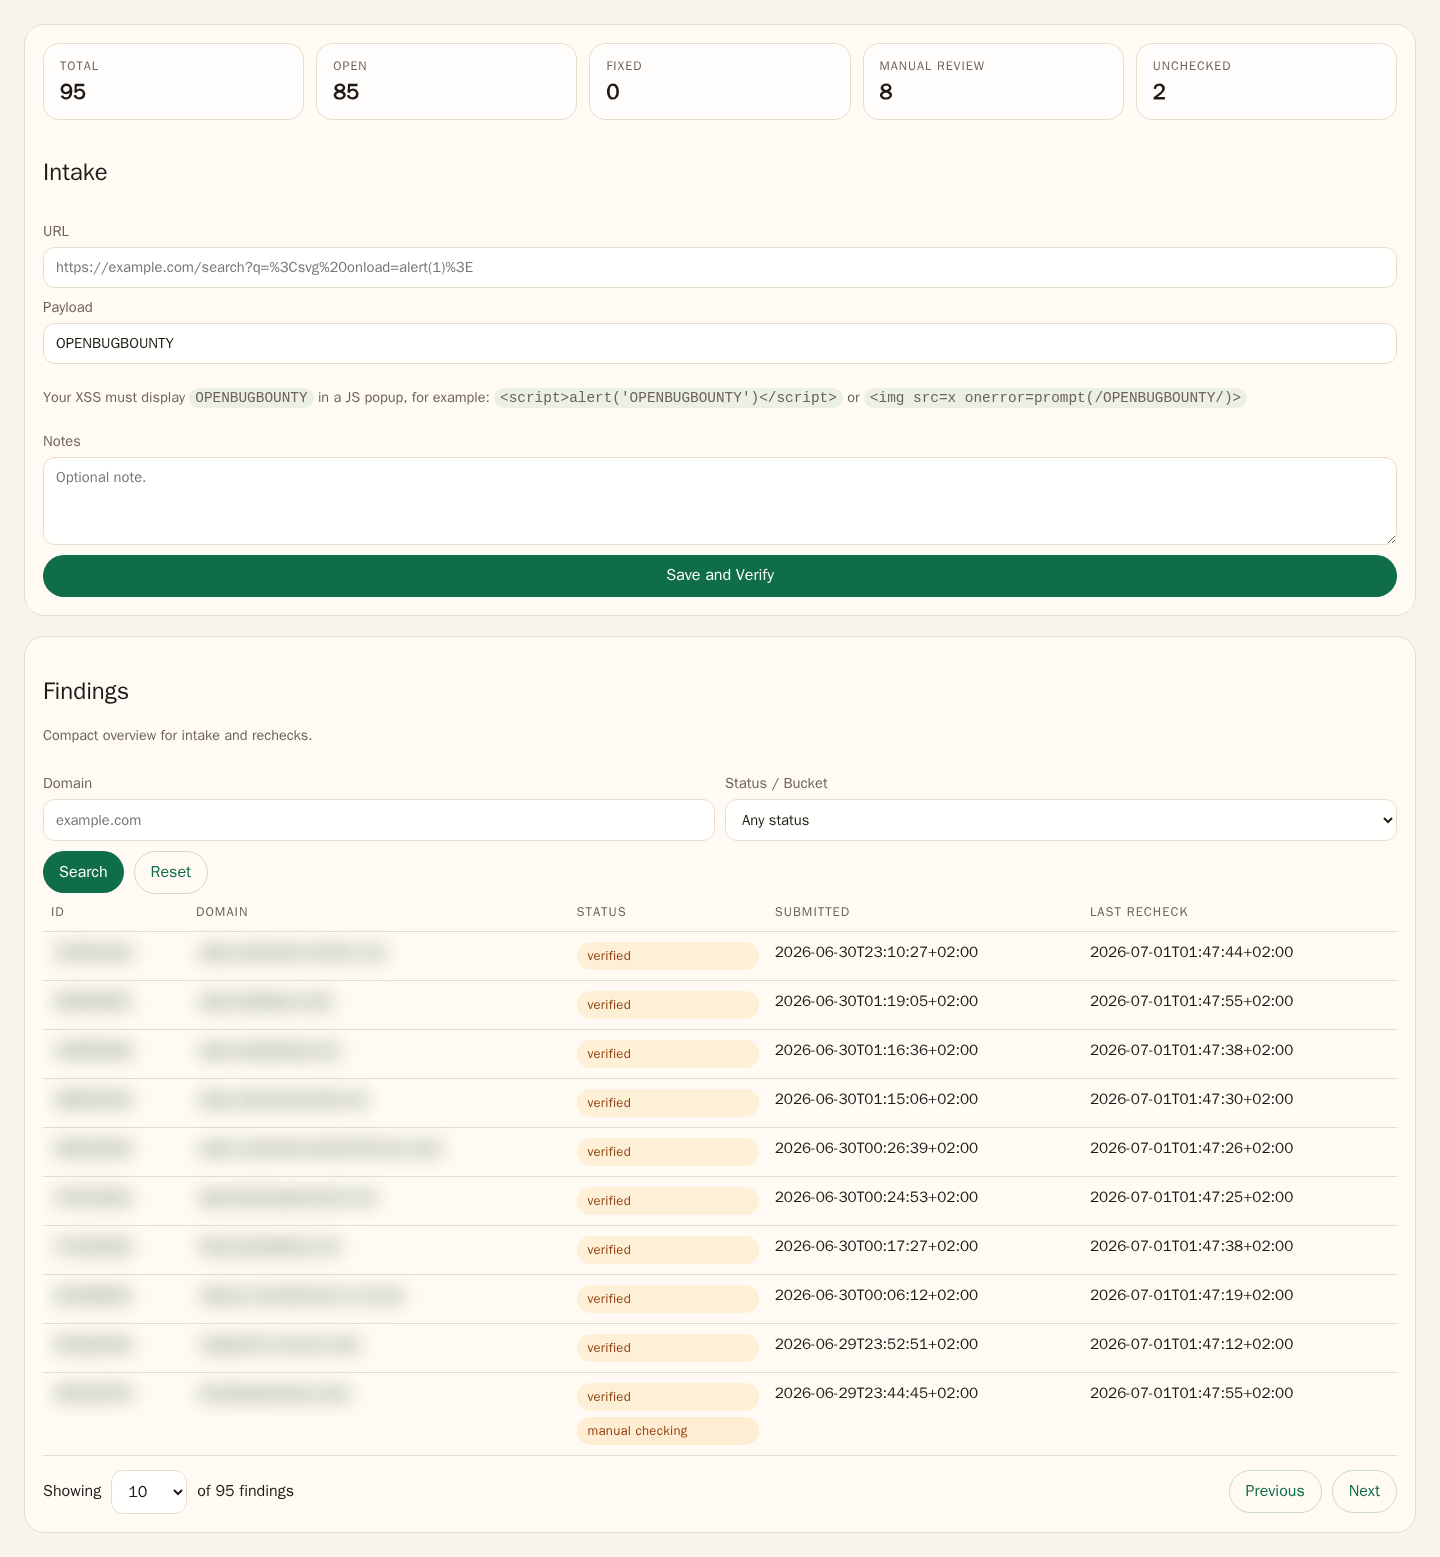
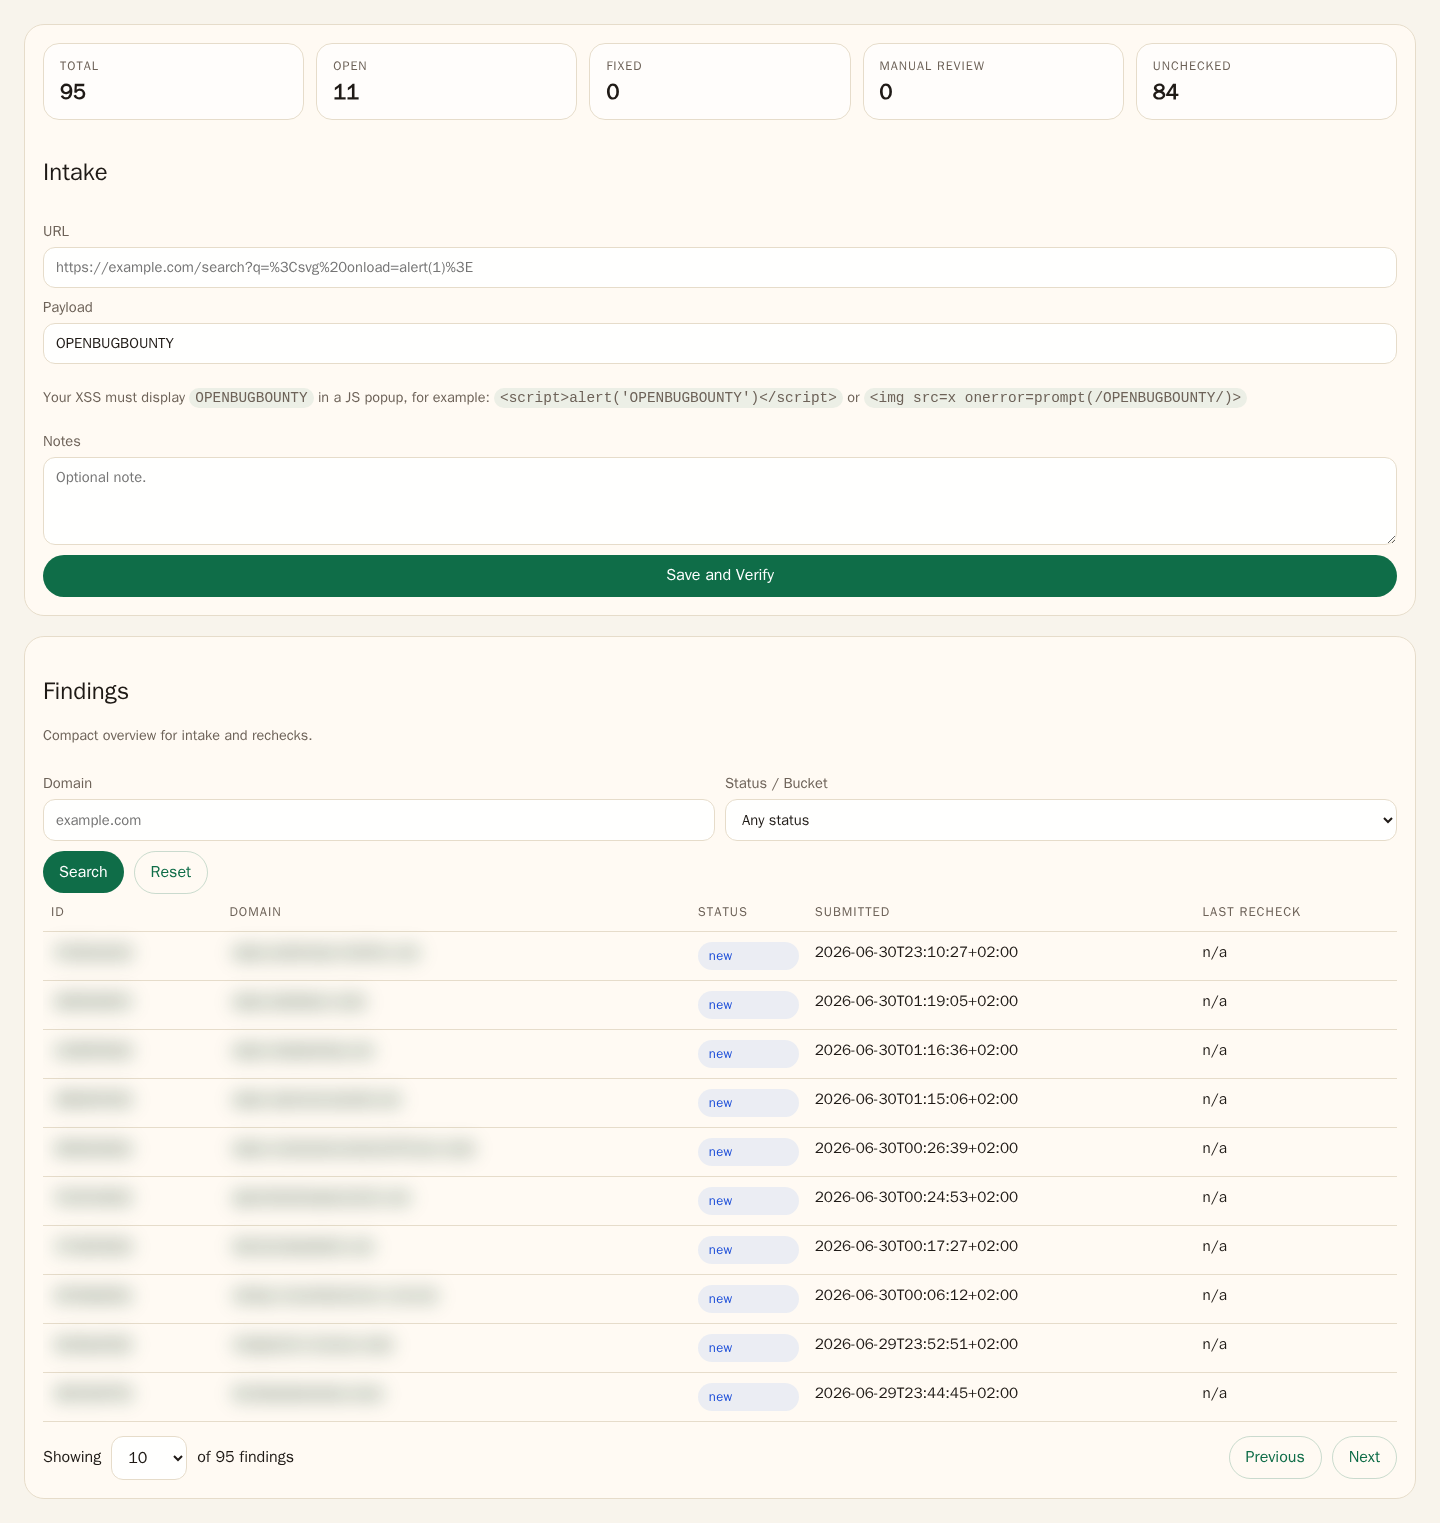
better screenshots

diff --git a/README.md b/README.md
@@ -33,9 +33,12 @@ open https://librebugbounty.ddev.site/
 
 Redacted previews of the current UI:
 
-<img src="docs/screenshots/overview-redacted.png" alt="LibreBugBounty overview screenshot" />
-
-<img src="docs/screenshots/detail-redacted.png" alt="LibreBugBounty detail screenshot" />
+<a href="docs/screenshots/overview-redacted.png">
+  <img src="docs/screenshots/overview-redacted.png" alt="LibreBugBounty overview screenshot" width="49%" />
+</a>
+<a href="docs/screenshots/detail-redacted.png">
+  <img src="docs/screenshots/detail-redacted.png" alt="LibreBugBounty detail screenshot" width="49%" />
+</a>
 
 Regenerate both screenshots with:
 